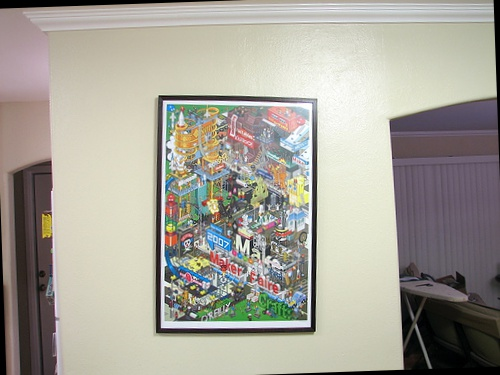
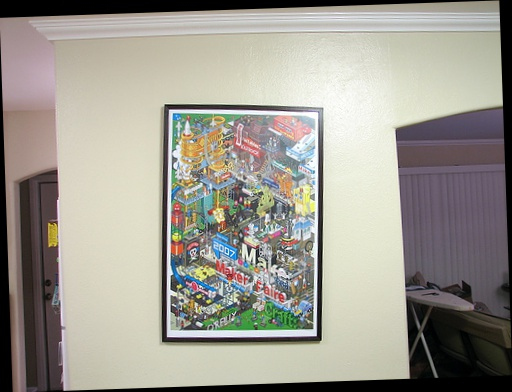
Crop image to largest possible

Changed region(s): [[0.0, 0.0, 1.0, 1.0], [0.3, 0.2347, 0.66, 0.9093], [0.87, 0.4107, 0.9, 0.44]]

diff --git a/parallel.py b/parallel.py
@@ -7,11 +7,37 @@ if len(sys.argv) < 3:
     print "Needs 2 arguments, image and line threshold"
     exit()
 
+# Rotates an image without cropping the corners
 def rotate_img(img, angle):
-    image_center = tuple(np.array(img.shape[1::-1]) / 2)
-    rot_mat = cv2.getRotationMatrix2D(image_center, angle, 1.0)
-    result = cv2.warpAffine(img, rot_mat, img.shape[1::-1], flags=cv2.INTER_LINEAR)
-    return result
+    height, width = img.shape[:2]
+    image_center = (width / 2, height / 2)
+    rotation_mat = cv2.getRotationMatrix2D(image_center, angle, 1)
+
+    radians = math.radians(angle)
+    sin = math.sin(radians)
+    cos = math.cos(radians)
+    bound_w = int((height * abs(sin)) + (width * abs(cos)))
+    bound_h = int((height * abs(cos)) + (width * abs(sin)))
+
+    rotation_mat[0, 2] += ((bound_w / 2) - image_center[0])
+    rotation_mat[1, 2] += ((bound_h / 2) - image_center[1])
+
+    return cv2.warpAffine(img, rotation_mat, (bound_w, bound_h))
+
+# Taken from https://stackoverflow.com/a/16778797
+def calc_cropped_bounds(w, h, angle):
+    width_is_longer = w >= h
+    side_long, side_short = (w, h) if width_is_longer else (h, w)
+
+    sin_a, cos_a = abs(math.sin(angle)), abs(math.cos(angle))
+    if side_short <= 2. * sin_a * cos_a * side_long or abs(sin_a - cos_a) < 1e-10:
+        x = 0.5 * side_short
+        wr,hr = (x / sin_a, x / cos_a) if width_is_longer else (x / cos_a, x / sin_a)
+    else:
+        cos_2a = cos_a * cos_a - sin_a * sin_a
+        wr, hr = (w * cos_a - h * sin_a) / cos_2a, (h * cos_a - w * sin_a) / cos_2a
+
+    return np.array([int(wr), int(hr)])
 
 # Returns tuples of indexes of parallel lines
 def find_parallel_lines(lines):
@@ -119,21 +145,21 @@ for idx_pair in parallels:
 cv2.imwrite("withlines.jpg", gray)
 
 angle_count, likely_angle = find_baseline(lines)
-rot_angle = math.degrees(convert_to_rotation_angle(likely_angle))
+rot_angle = convert_to_rotation_angle(likely_angle)
 
 # Print this just for info
 print "Angle count:\t" + str(angle_count)
 print "In degrees:\t" + str(math.degrees(rot_angle))
 
 # Write rotated image
-rotated_img = rotate_img(input_img, rot_angle)
+rotated_img = rotate_img(input_img, math.degrees(rot_angle))
 cv2.imwrite("output.jpg", rotated_img)
 
 # Crop rotated image using original
 #  print str(np.array(input_img.shape))
 #  print str(np.array(input_img.shape)[0:2])
-[diff_y, diff_x] = np.array(input_img.shape[0:2]) / 2
-[c_y, c_x] = np.array(rotated_img.shape[0:2]) / 2
+height, width = input_img.shape[:2]
+diff_y, diff_x = calc_cropped_bounds(width, height, rot_angle) / 2
+c_y, c_x = np.array(rotated_img.shape[:2]) / 2
 print str(c_x) + "," + str(diff_x) + "," + str(c_y) + "," + str(diff_y)
 cropped_img = rotated_img[c_y - diff_y:c_y + diff_y, c_x - diff_x:c_x + diff_x]
-cv2.imwrite("cropped.jpg", cropped_img)
